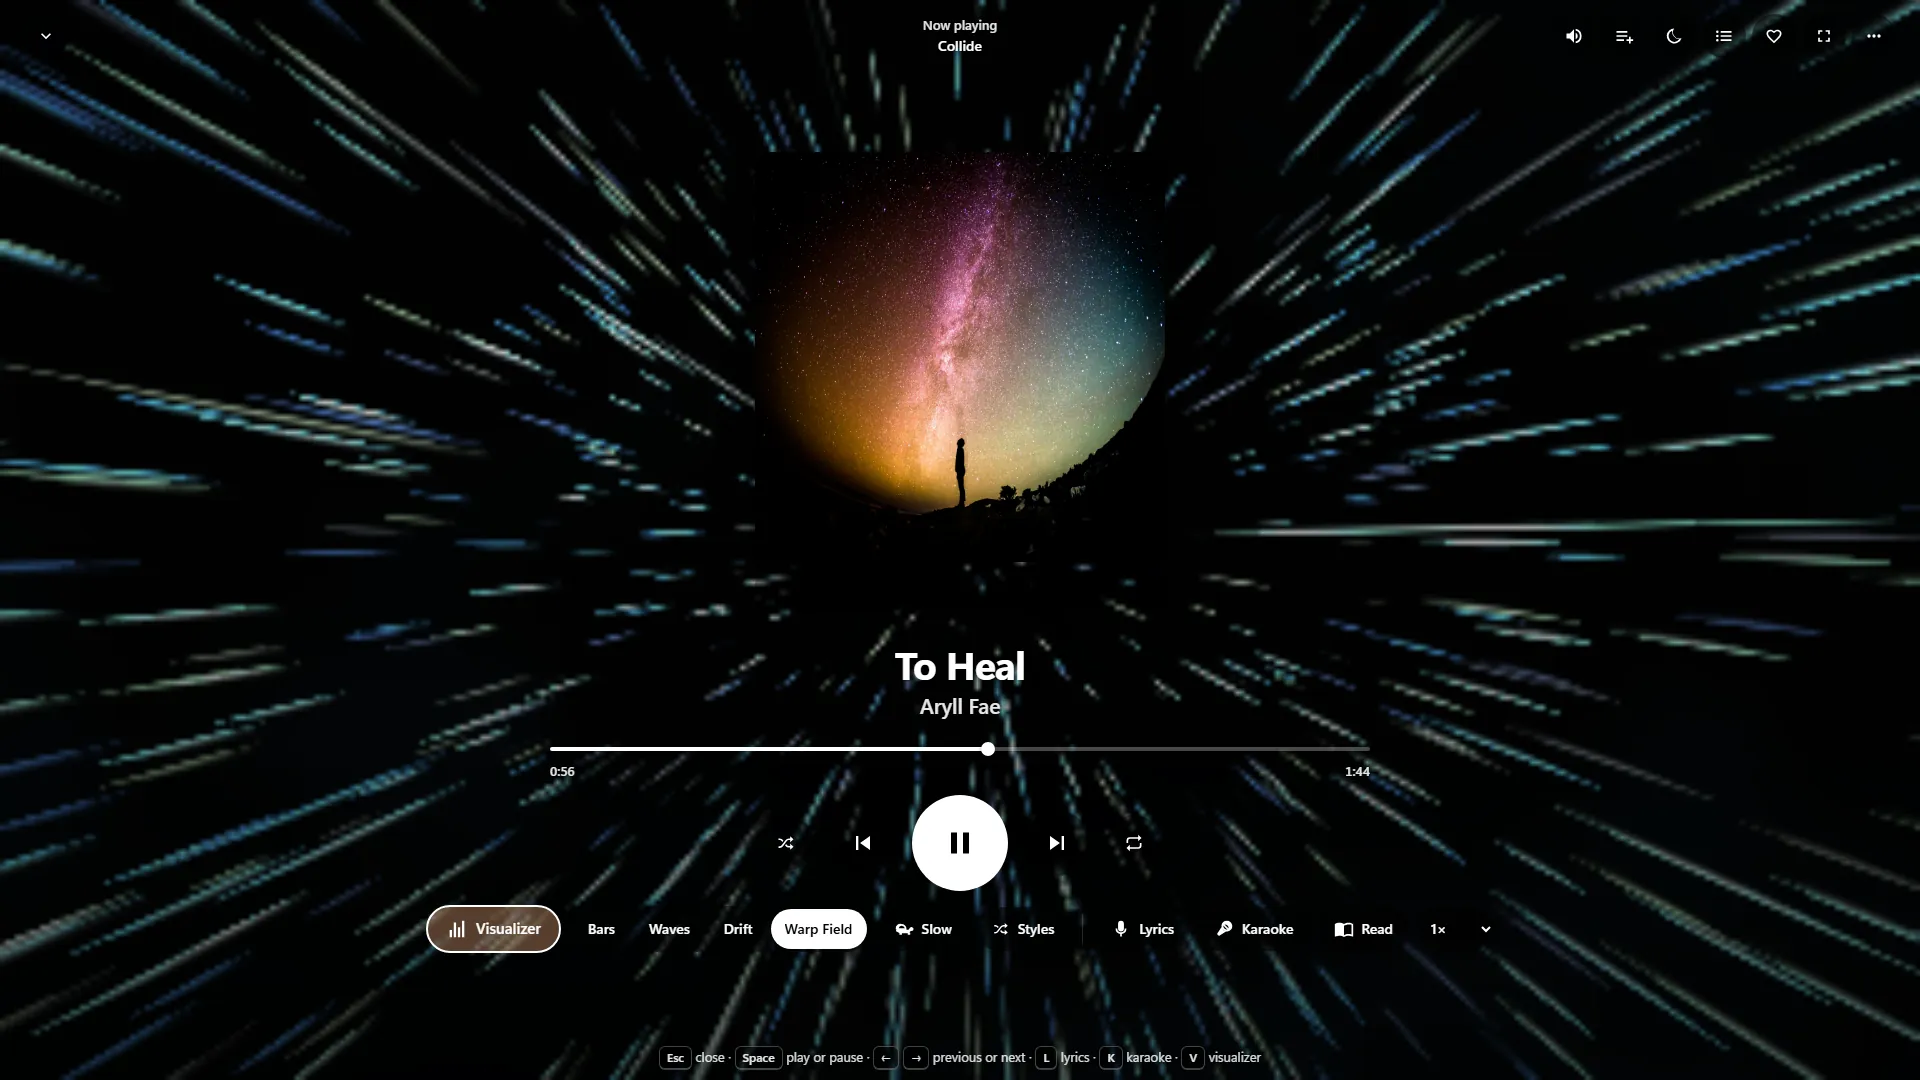
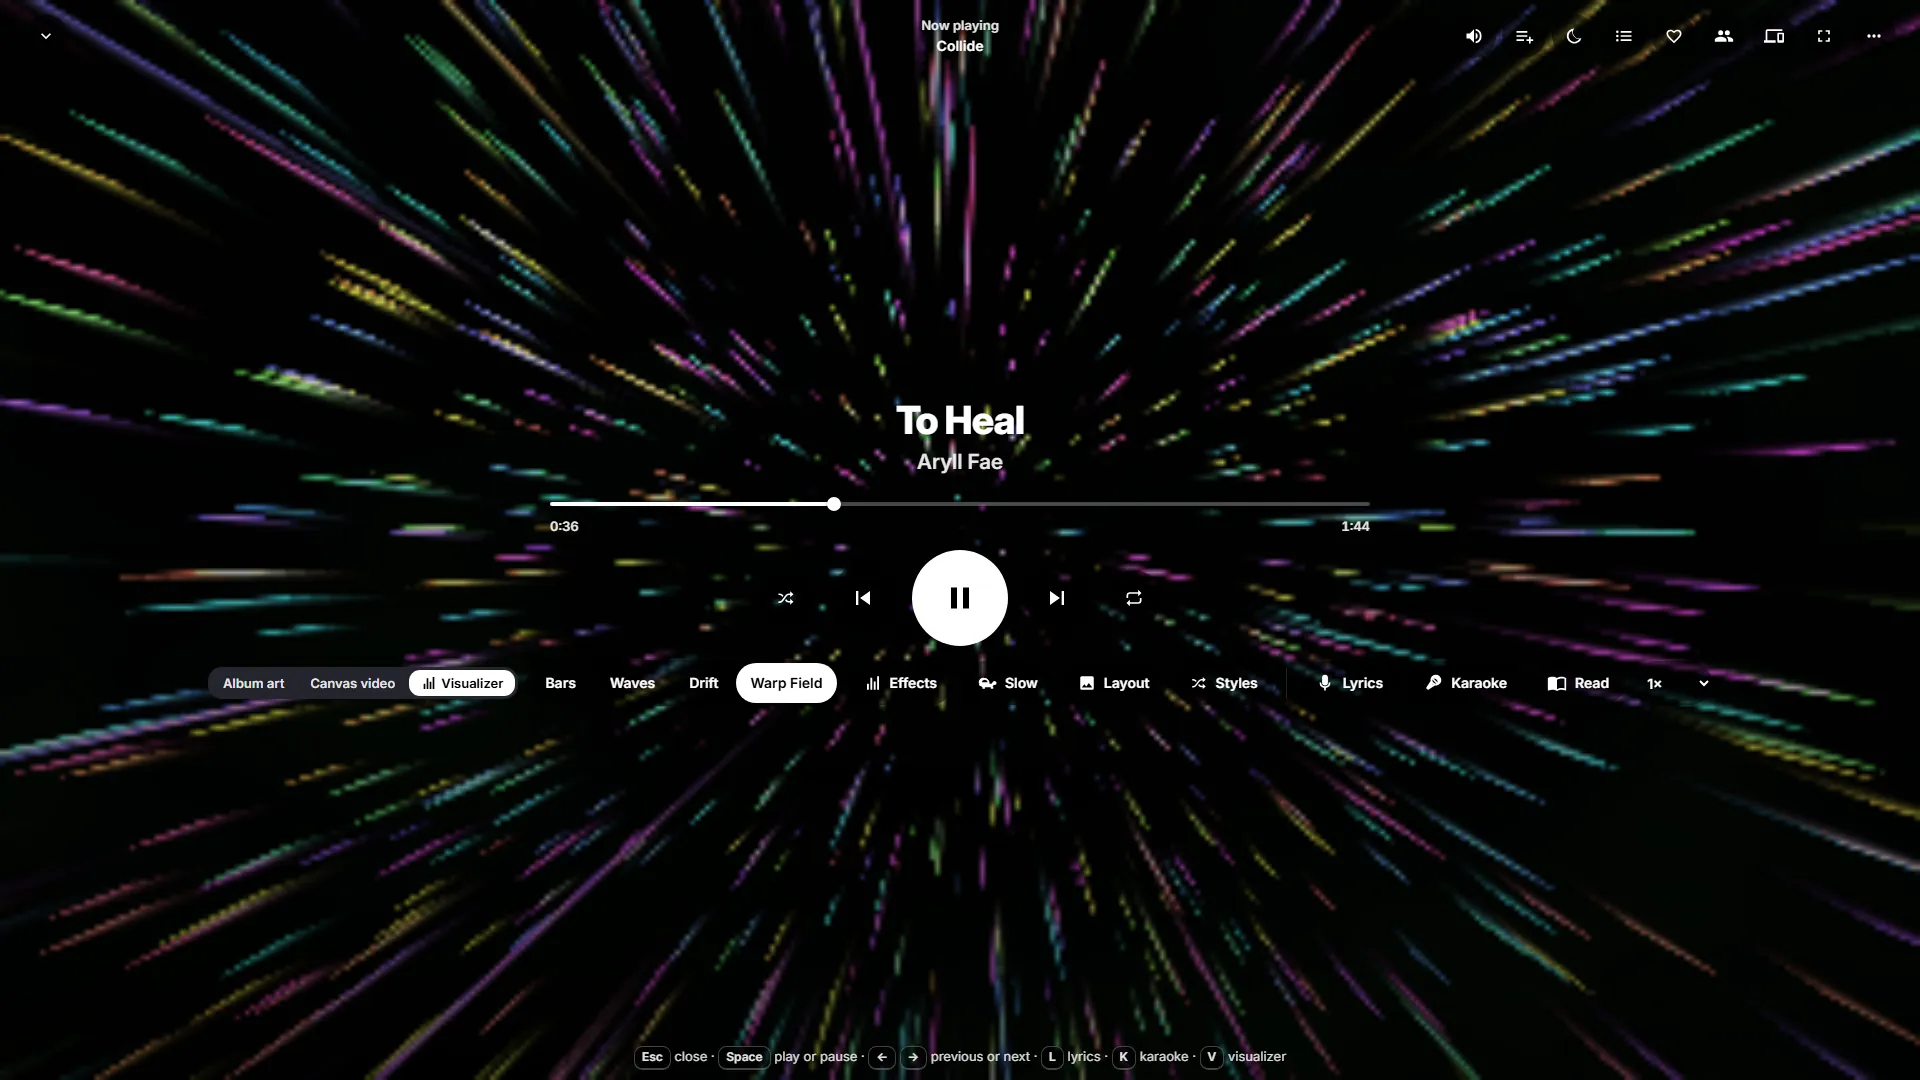
README pictures retaken from WittyMediaServer 0.8.0-alpha (#6)
Taken on a test server with open media from WittyDemoMedia only.

Changed region(s): [[0.0, 0.0, 1.0, 1.0]]

diff --git a/CHANGELOG.md b/CHANGELOG.md
@@ -3,6 +3,10 @@
 What changed in WittyVisualizer, newest first. What changed before it had a repository of its own is in the
 [WittyMediaServer changelog](https://github.com/wittywilla/WittyMediaServer/blob/master/CHANGELOG.md).
 
+## 0.4.2
+
+- The README's pictures are retaken from WittyMediaServer 0.8.0-alpha's full-screen player, with open music only.
+
 ## 0.4.1
 
 - The first release on module API 5. The tag v0.4.0 was made before these build changes and was never published.
